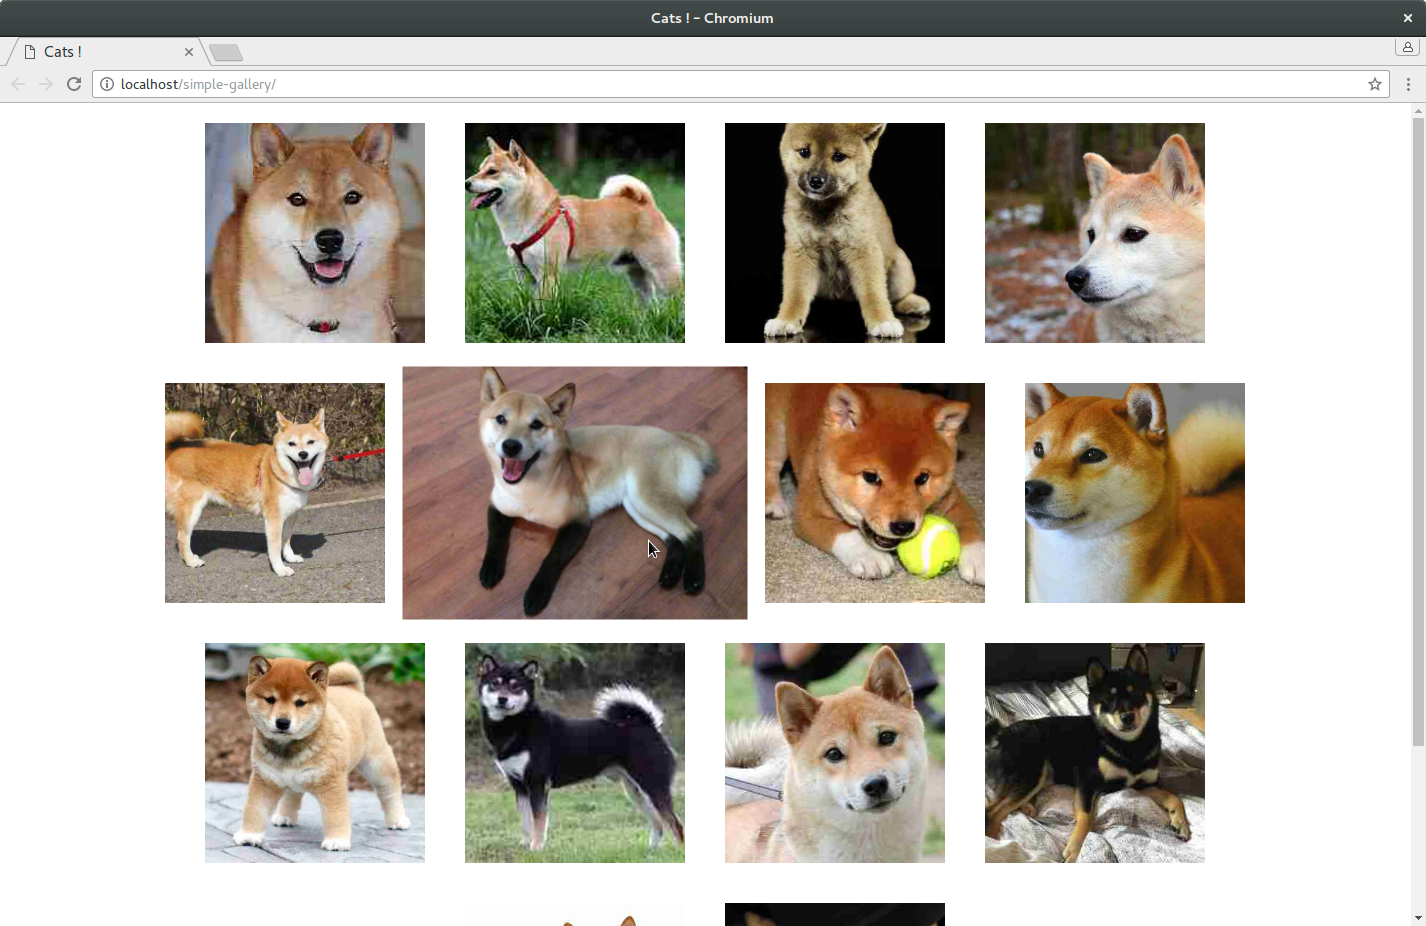
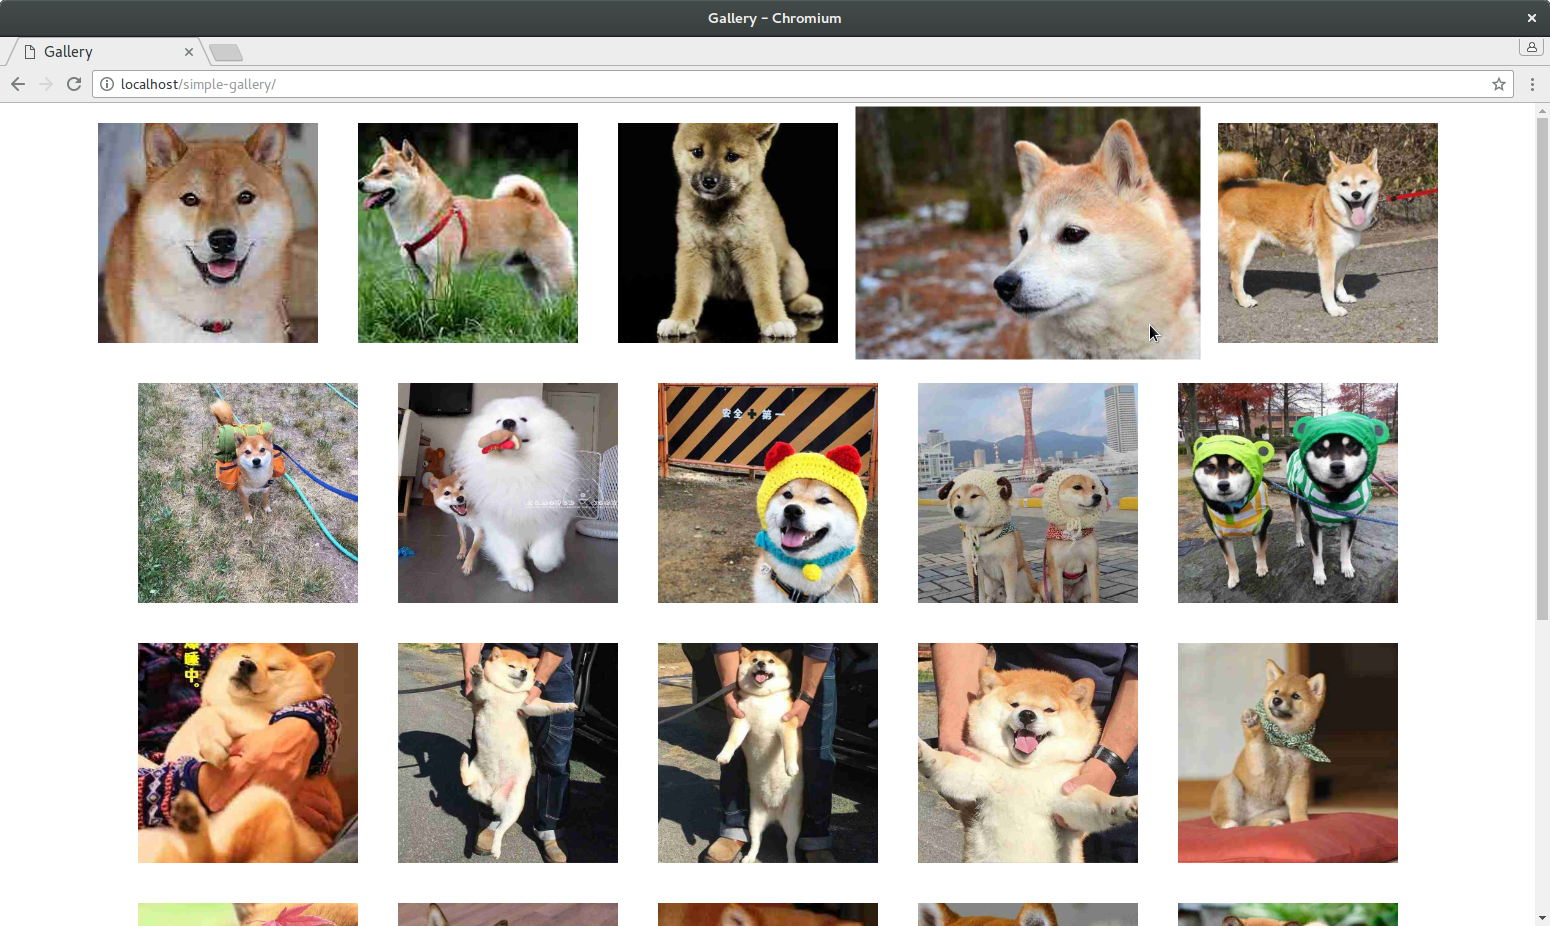
more doges + demo + readme

diff --git a/index.php b/index.php
@@ -1,7 +1,7 @@
 <!DOCTYPE HTML>
 <html>
 <head>
-	<title>Cats !</title>
+	<title>Gallery</title>
 	<link rel="stylesheet" type="text/css" href="css/gallery.css">
 	<meta charset="utf-8">
 </head>

diff --git a/README.md b/README.md
@@ -2,9 +2,9 @@
 
 ![alt tag](https://raw.githubusercontent.com/P147x/simple-gallery/master/demo.png)
 
-Simple and easy to use gallery in HTML, CSS and PHP. Clone the project in your web folder and copy your pictures on "img", and let it do the work ~____
+Simple and easy to use gallery in HTML, CSS and PHP. Clone the project in your web folder and copy your pictures on "img", and let it do the work ~
 
-Updates upcoming :__
+Updates upcoming :
 * image come to fullsize when clicked on
 * responsive css for a better look on mobile devices
 * better animations
